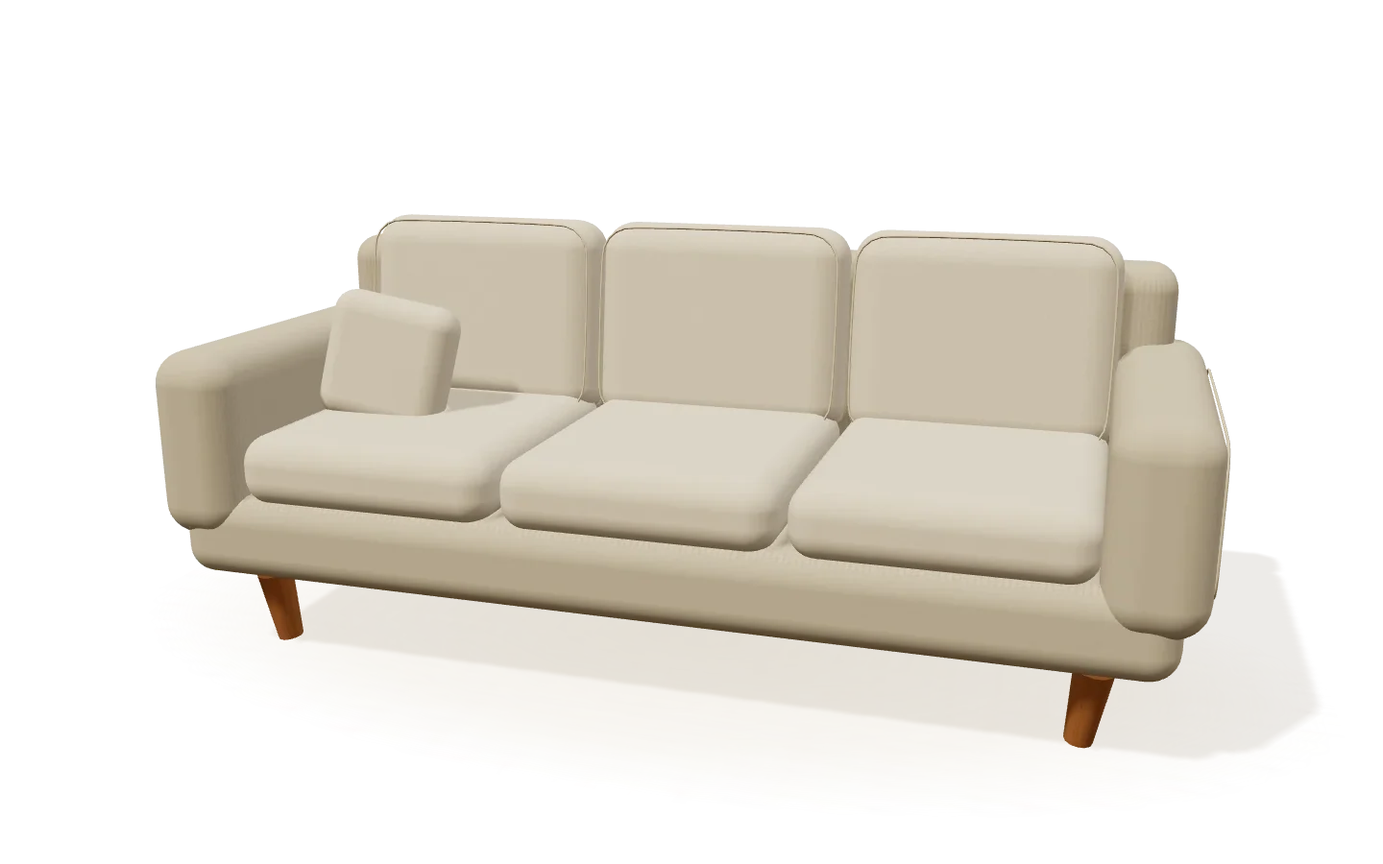
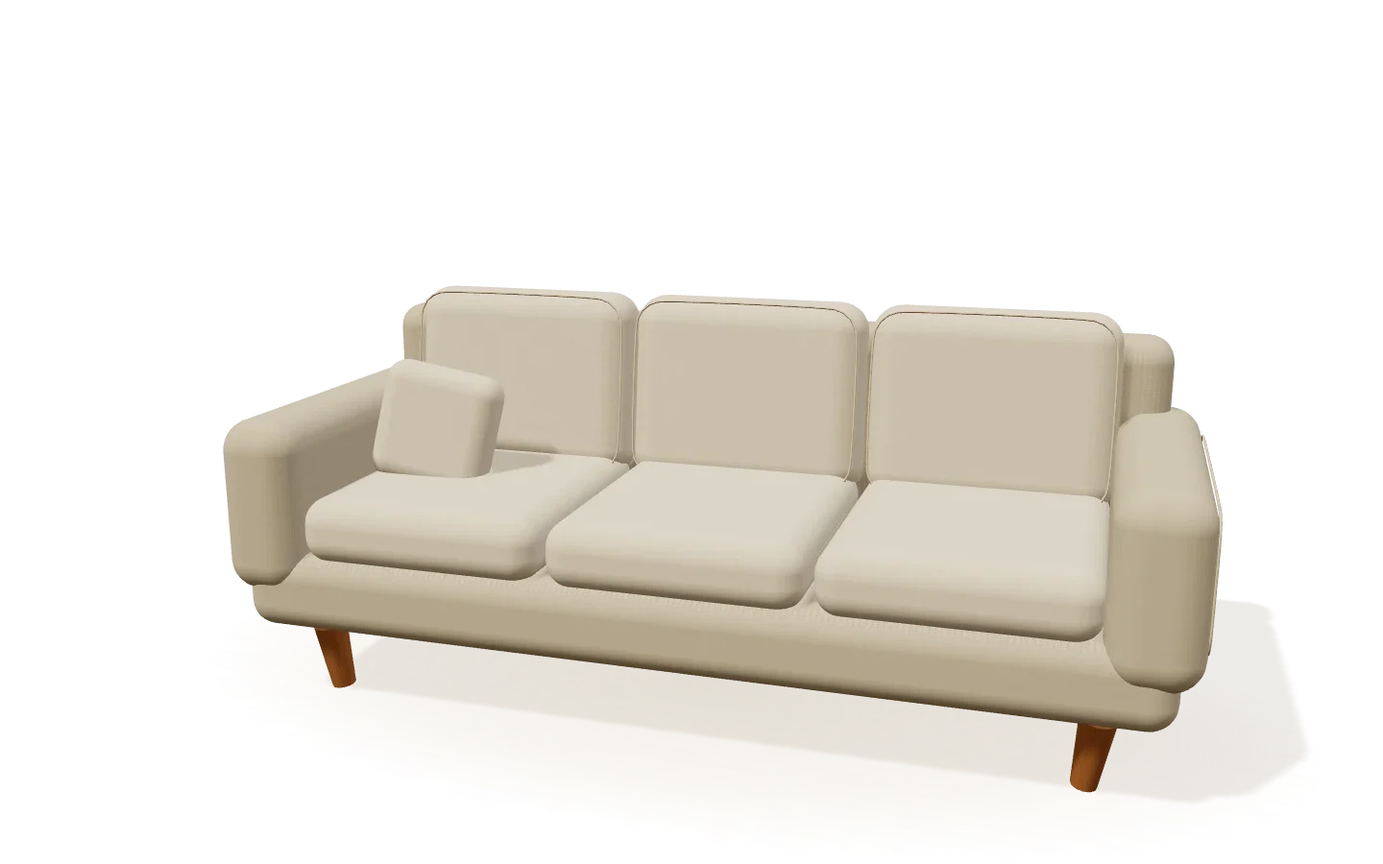
Choreograph scroll typography, gradients and sofa camera

Changed region(s): [[0.0938, 0.2489, 0.9375, 0.9333]]

diff --git a/index.html b/index.html
@@ -31,8 +31,8 @@
         <section class="hero" id="inicio" aria-labelledby="heroHeading">
             <div class="container">
                 <div class="hero-header">
-                    <div><p class="eyebrow">Tapicería a medida · Desde hace 29 años</p><h1 id="heroHeading">Muebles con<br>historia.</h1></div>
-                    <div class="hero-copy"><p>Los de siempre, para seguir viviendo.<br>Restauramos y tapizamos sus muebles con el cuidado de un trabajo hecho a mano.</p><a class="text-link" href="#catalogo">Conozca nuestro trabajo <span aria-hidden="true">↓</span></a></div>
+                    <div><p class="eyebrow">Tapicería a medida · Desde hace 29 años</p><h1 id="heroHeading" data-reveal><span class="title-line"><span>Muebles con</span></span> <span class="title-line"><span>historia.</span></span></h1></div>
+                    <div class="hero-copy"><p data-reveal style="--reveal-delay: 120ms;">Los de siempre, para seguir viviendo.<br>Restauramos y tapizamos sus muebles con el cuidado de un trabajo hecho a mano.</p><a class="text-link" href="#catalogo">Conozca nuestro trabajo <span aria-hidden="true">↓</span></a></div>
                 </div>
                 <figure class="hero-figure">
                     <img src="assets/photos/sofa-curvo-terracota.jpg" srcset="assets/photos/sofa-curvo-terracota-sm.jpg 720w, assets/photos/sofa-curvo-terracota.jpg 1600w" sizes="(max-width: 1440px) 100vw, 1360px" width="1600" height="582" alt="Sofá curvo tapizado en terracota, junto a una ventana de la residencia" fetchpriority="high">
@@ -44,9 +44,20 @@
 
         <section class="showroom-section" id="espacio-3d" aria-labelledby="spatialHeading" data-scene-state="static" data-progress="0">
             <div class="showroom-sticky" id="spatialStage">
+                <div class="showroom-atmosphere" aria-hidden="true">
+                    <div class="scene-wash scene-wash--linen"></div>
+                    <div class="scene-wash scene-wash--clay"></div>
+                    <div class="scene-wash scene-wash--sage"></div>
+                    <div class="scene-light"></div>
+                </div>
                 <div class="showroom-heading">
-                    <p class="eyebrow">Un estudio de formas y texturas</p>
-                    <h2 id="spatialHeading">El oficio<br>toma forma.</h2>
+                    <p class="eyebrow">Rivera · Un estudio de formas y texturas</p>
+                    <h2 id="spatialHeading" class="sr-only">El oficio toma forma.</h2>
+                </div>
+                <div class="showroom-kinetic" aria-hidden="true">
+                    <div class="motion-word" data-motion-word="0"><p class="motion-line"><span>La forma</span></p><p class="motion-subtitle"><span>de quedarse.</span></p></div>
+                    <div class="motion-word" data-motion-word="1"><p class="motion-line"><span>El detalle</span></p><p class="motion-subtitle"><span>que se siente.</span></p></div>
+                    <div class="motion-word" data-motion-word="2"><p class="motion-line"><span>Su hogar</span></p><p class="motion-subtitle"><span>con otra vida.</span></p></div>
                 </div>
                 <div class="showroom-mode">
                     <button type="button" id="perfToggleBtn" class="perf-control" hidden aria-pressed="false" aria-label="Vista 3D del mueble" aria-controls="sofaCanvas"><span class="perf-dot" aria-hidden="true"></span><span id="perfStatusLabel">Ver en 3D</span></button>
@@ -74,7 +85,7 @@
 
         <section class="portfolio-section" id="catalogo" aria-labelledby="catalogoHeading">
             <div class="container">
-                <div class="section-header"><div><p class="eyebrow">Una selección del taller</p><h2 id="catalogoHeading">Nuestro trabajo.</h2></div><p class="section-desc">Sofás, butacas y piezas a medida.<br>De nuestro taller a su casa.</p></div>
+                <div class="section-header"><div><p class="eyebrow">Una selección del taller</p><h2 id="catalogoHeading" data-reveal>Nuestro trabajo.</h2></div><p class="section-desc" data-reveal style="--reveal-delay: 100ms;">Sofás, butacas y piezas a medida.<br>De nuestro taller a su casa.</p></div>
                 <div class="catalog-controls">
                     <div class="filter-bar" hidden role="group" aria-label="Filtrar trabajos" aria-controls="catalogGrid">
                         <button class="filter-btn is-active" type="button" data-filter="all" aria-pressed="true">Todos</button>
@@ -165,19 +176,19 @@
         <section class="atelier-section" id="maestro" aria-labelledby="maestroHeading">
             <div class="container atelier-layout">
                 <figure class="atelier-photo"><img src="assets/photos/taller-maestro.jpg" srcset="assets/photos/taller-maestro-sm.jpg 720w, assets/photos/taller-maestro.jpg 1152w" sizes="(max-width: 800px) 100vw, 50vw" width="1152" height="883" alt="Trabajo manual sobre una poltrona en el taller de tapicería" loading="lazy" decoding="async"><figcaption>Un día en el taller.</figcaption></figure>
-                <div class="atelier-copy"><p class="eyebrow">Maestro Rivera · Lima</p><h2 id="maestroHeading">Hecho a mano.<br>Con paciencia.</h2><p>Hace 29 años que trabajamos con telas, madera y espuma. Escuchamos lo que necesita, revisamos su mueble y le ayudamos a elegir cómo renovarlo.</p><p>Desde la primera conversación hasta la entrega, el trato es directo con el maestro tapicero.</p><a class="text-link" href="https://wa.me/51997317630?text=Hola%20Maestro%20Rivera,%20quisiera%20cotizar%20el%20tapizado%20de%20un%20mueble." target="_blank" rel="noopener noreferrer">Conversemos sobre su mueble <span aria-hidden="true">↗</span></a></div>
+                <div class="atelier-copy"><p class="eyebrow">Maestro Rivera · Lima</p><h2 id="maestroHeading" data-reveal>Hecho a mano.<br>Con paciencia.</h2><p>Hace 29 años que trabajamos con telas, madera y espuma. Escuchamos lo que necesita, revisamos su mueble y le ayudamos a elegir cómo renovarlo.</p><p>Desde la primera conversación hasta la entrega, el trato es directo con el maestro tapicero.</p><a class="text-link" href="https://wa.me/51997317630?text=Hola%20Maestro%20Rivera,%20quisiera%20cotizar%20el%20tapizado%20de%20un%20mueble." target="_blank" rel="noopener noreferrer">Conversemos sobre su mueble <span aria-hidden="true">↗</span></a></div>
             </div>
         </section>
 
         <section class="process-section" id="proceso" aria-labelledby="procesoHeading">
             <div class="container process-layout">
-                <div><p class="eyebrow">Lo que también importa</p><h2 id="procesoHeading">Por dentro,<br>también.</h2><p class="section-desc">Revisamos la estructura y el relleno antes de colocar la tela. Lo que no se ve también se siente al sentarse.</p><ol class="process-steps"><li><span>01</span><div><h3>Revisamos su mueble</h3><p>Evaluamos qué se puede conservar y qué necesita renovarse.</p></div></li><li><span>02</span><div><h3>Elegimos los materiales</h3><p>Tela, textura y firmeza según el uso que le dará.</p></div></li><li><span>03</span><div><h3>Trabajamos a medida</h3><p>Ajustamos el relleno y cuidamos cada costura.</p></div></li></ol></div>
+                <div><p class="eyebrow">Lo que también importa</p><h2 id="procesoHeading" data-reveal>Por dentro,<br>también.</h2><p class="section-desc" data-reveal style="--reveal-delay: 100ms;">Revisamos la estructura y el relleno antes de colocar la tela. Lo que no se ve también se siente al sentarse.</p><ol class="process-steps"><li><span>01</span><div><h3>Revisamos su mueble</h3><p>Evaluamos qué se puede conservar y qué necesita renovarse.</p></div></li><li><span>02</span><div><h3>Elegimos los materiales</h3><p>Tela, textura y firmeza según el uso que le dará.</p></div></li><li><span>03</span><div><h3>Trabajamos a medida</h3><p>Ajustamos el relleno y cuidamos cada costura.</p></div></li></ol></div>
                 <figure class="process-photo"><img src="assets/photos/espuma-antes-despues.jpg" srcset="assets/photos/espuma-antes-despues-sm.jpg 720w, assets/photos/espuma-antes-despues.jpg 1536w" sizes="(max-width: 800px) 100vw, 50vw" width="1536" height="792" alt="Relleno de un asiento abierto durante la revisión en el taller" loading="lazy" decoding="async"><figcaption>El trabajo empieza antes de la tela.</figcaption></figure>
             </div>
         </section>
 
         <section class="contact-section" id="contacto" aria-labelledby="contactoHeading">
-            <div class="container contact-layout"><div><p class="eyebrow">Empecemos por una foto</p><h2 id="contactoHeading">Su mueble aún<br>tiene historia.</h2></div><div class="contact-copy"><p>Envíenos una foto por WhatsApp. Le orientamos sobre el tapizado y coordinamos los siguientes pasos.</p><a class="button-primary" href="https://wa.me/51997317630?text=Hola%20Maestro%20Rivera,%20quisiera%20cotizar%20el%20tapizado%20de%20un%20mueble." target="_blank" rel="noopener noreferrer">Consultar por WhatsApp <span aria-hidden="true">↗</span></a><a class="phone-link" href="tel:+51997317630">O llámenos al 997 317 630</a></div></div>
+            <div class="container contact-layout"><div><p class="eyebrow">Empecemos por una foto</p><h2 id="contactoHeading" data-reveal>Su mueble aún<br>tiene historia.</h2></div><div class="contact-copy"><p>Envíenos una foto por WhatsApp. Le orientamos sobre el tapizado y coordinamos los siguientes pasos.</p><a class="button-primary" href="https://wa.me/51997317630?text=Hola%20Maestro%20Rivera,%20quisiera%20cotizar%20el%20tapizado%20de%20un%20mueble." target="_blank" rel="noopener noreferrer">Consultar por WhatsApp <span aria-hidden="true">↗</span></a><a class="phone-link" href="tel:+51997317630">O llámenos al 997 317 630</a></div></div>
         </section>
     </main>
     <footer class="site-footer"><div class="container footer-inner"><a class="brand-name" href="#inicio">Rivera Concierge</a><p>Tapicería de muebles · Lima, Perú</p><a class="back-top" href="#inicio">Volver al inicio ↑</a></div></footer>

diff --git a/app.js b/app.js
@@ -25,6 +25,10 @@
         const chapterDescription = document.getElementById('showroomDescription');
         const hint = document.getElementById('showroomHint');
         const announcement = document.getElementById('showroomStatus');
+        const motionWords = Array.from(stage.querySelectorAll('[data-motion-word]'));
+        const motionBeats = [[-0.2, -0.1, 0.19, 0.33], [0.24, 0.40, 0.57, 0.71], [0.64, 0.82, 1.2, 1.3]];
+        const revealItems = Array.from(document.querySelectorAll('[data-reveal]'));
+        let revealObserver = null;
         const chapters = [
             ['01 / La forma', 'Un lugar para quedarse.', 'Líneas sencillas. Proporciones que invitan a sentarse.'],
             ['02 / El tapizado', 'La diferencia se siente.', 'Una textura, un tono, una forma de hacer suyo el espacio.'],
@@ -72,6 +76,64 @@
             if (hint) hint.textContent = active ? 'Deslice para descubrir la forma ↓' : 'Elija un tono para explorar el tapizado.';
         }
 
+        function smoothstep(start, end, value) {
+            const t = Math.max(0, Math.min(1, (value - start) / (end - start)));
+            return t * t * (3 - 2 * t);
+        }
+
+        function animateTypography(value) {
+            // One scroll clock drives masks, background layers, copy and the 3D camera.
+            // No timers, animated blur or perpetual background animation.
+            motionWords.forEach(function (word, index) {
+                const beat = motionBeats[index];
+                const enter = index === 0 ? 1 : smoothstep(beat[0], beat[1], value);
+                const leave = index === 2 ? 0 : smoothstep(beat[2], beat[3], value);
+                const subEnter = index === 0 ? 1 : smoothstep(beat[0] + 0.035, beat[1] + 0.035, value);
+                const subLeave = index === 2 ? 0 : smoothstep(beat[2] + 0.015, beat[3] + 0.015, value);
+                word.style.setProperty('--word-alpha', (enter * (1 - leave)).toFixed(4));
+                word.style.setProperty('--word-y', ((1 - enter) * 110 - leave * 106).toFixed(2) + '%');
+                word.style.setProperty('--word-scale', (0.94 + enter * 0.06 - leave * 0.025).toFixed(4));
+                word.style.setProperty('--sub-alpha', (subEnter * (1 - subLeave)).toFixed(4));
+                word.style.setProperty('--sub-y', ((1 - subEnter) * 115 - subLeave * 110).toFixed(2) + '%');
+            });
+            const clay = smoothstep(0.10, 0.43, value) * (1 - smoothstep(0.65, 0.91, value));
+            stage.style.setProperty('--clay-opacity', clay.toFixed(4));
+            stage.style.setProperty('--sage-opacity', smoothstep(0.58, 0.93, value).toFixed(4));
+            stage.style.setProperty('--haze-x', ((value - 0.5) * 80).toFixed(2) + 'px');
+            stage.style.setProperty('--haze-y', (Math.sin(value * Math.PI) * -35).toFixed(2) + 'px');
+            stage.style.setProperty('--light-x', ((value - 0.5) * -100).toFixed(2) + 'px');
+            stage.style.setProperty('--light-y', (value * 24).toFixed(2) + 'px');
+            const distance = Math.min(Math.abs(value - 1 / 3), Math.abs(value - 2 / 3));
+            const copyOpacity = smoothstep(0, 0.065, distance);
+            stage.style.setProperty('--story-alpha', copyOpacity.toFixed(4));
+            const local = value < 1 / 3 ? value - 1 / 3 : value < 2 / 3 ? value - 2 / 3 : value - 1;
+            stage.style.setProperty('--story-y', ((1 - copyOpacity) * (local < 0 ? -14 : 14)).toFixed(2) + 'px');
+        }
+
+        function configureReveals() {
+            const hardwareSuitable = navigator.hardwareConcurrency >= 4 && (typeof navigator.deviceMemory !== 'number' || navigator.deviceMemory >= 4);
+            const allowed = supported && !motionQuery.matches && !(connection && connection.saveData) && hardwareSuitable && hoverQuery.matches;
+            if (!allowed) {
+                if (revealObserver) revealObserver.disconnect();
+                revealObserver = null;
+                document.body.classList.remove('motion-reveals');
+                // Reset instantly when accessibility or device policy changes.
+                revealItems.forEach(function (item) { item.classList.add('is-revealed'); });
+                return;
+            }
+            if (revealObserver) return;
+            revealObserver = new IntersectionObserver(function (entries) {
+                entries.forEach(function (entry) {
+                    if (entry.isIntersecting) {
+                        entry.target.classList.add('is-revealed');
+                        if (revealObserver) revealObserver.unobserve(entry.target);
+                    }
+                });
+            }, { rootMargin: '0px 0px -32px 0px', threshold: 0.12 });
+            document.body.classList.add('motion-reveals');
+            revealItems.forEach(function (item) { revealObserver.observe(item); });
+        }
+
         function updateChapter(value) {
             const next = Math.min(2, Math.floor(value * 3));
             if (next === chapter) return;
@@ -110,6 +172,7 @@
             section.dataset.progress = '0';
             stage.style.setProperty('--showroom-progress', '0');
             updateChapter(0);
+            animateTypography(0);
             if (inside) {
                 window.scrollTo({ top: Math.max(0, window.scrollY + section.getBoundingClientRect().top - headerHeight), behavior: 'instant' });
             }
@@ -184,6 +247,7 @@
             section.dataset.progress = progress.toFixed(4);
             stage.style.setProperty('--showroom-progress', progress.toFixed(4));
             updateChapter(progress);
+            animateTypography(progress);
             if (settled) stopAnimation();
             else frame = window.requestAnimationFrame(render);
         }
@@ -233,6 +297,7 @@
         }
 
         function applyPolicy() {
+            configureReveals();
             const blocked = !supported || motionQuery.matches || Boolean(connection && connection.saveData);
             const hardwareSuitable = navigator.hardwareConcurrency >= 4 && (typeof navigator.deviceMemory !== 'number' || navigator.deviceMemory >= 4);
             const automatic = hardwareSuitable && hoverQuery && hoverQuery.matches;
@@ -271,6 +336,7 @@
         toggle.hidden = false;
         updateBounds();
         updateChapter(0);
+        animateTypography(0);
 
         if (supported) {
             const observer = new IntersectionObserver(function (entries) {

diff --git a/styles.css b/styles.css
@@ -263,3 +263,87 @@ figcaption { display: flex; justify-content: space-between; gap: 16px; font-size
     .showroom-live .showroom-story h3 { font-size: 19px; }
     .showroom-live .showroom-heading .eyebrow { margin-bottom: 8px; }
 }
+
+/* Scroll art direction: static gradients, composited washes and masked type. */
+.hero {
+    position: relative;
+    background: radial-gradient(ellipse at 100% 0, #d8a88c55, transparent 58%), linear-gradient(145deg, #f7f0e7, #eee4d5);
+}
+.hero .text-link { gap: 54px; }
+.title-line { display: block; overflow: hidden; }
+.title-line > span { display: block; }
+.showroom-section { --scene-paper: #eadbc8; border-color: #b9a48d; }
+.showroom-sticky { background: #eadbc8; }
+.showroom-section.showroom-live { height: 340svh; }
+.showroom-atmosphere { position: absolute; inset: 0; z-index: -1; pointer-events: none; overflow: hidden; }
+.scene-wash { position: absolute; inset: -12%; pointer-events: none; }
+.scene-wash--linen { background: radial-gradient(ellipse at 17% 13%, #fff6e8 0%, transparent 55%), linear-gradient(128deg, #e9d6bc 12%, #e7c4a9 62%, #c8b8b2); }
+.scene-wash--clay { background: radial-gradient(ellipse at 82% 42%, #efd0b0, transparent 58%), linear-gradient(115deg, #c3afb4 5%, #c48f78 54%, #deb19a); opacity: var(--clay-opacity, 0); transform: translate3d(var(--haze-x, 0px), var(--haze-y, 0px), 0) scale(1.04); }
+.scene-wash--sage { background: radial-gradient(ellipse at 22% 30%, #f0e9d3 0%, transparent 58%), linear-gradient(120deg, #c5baaa, #adb59c 54%, #c6a894); opacity: var(--sage-opacity, 0); transform: translate3d(calc(var(--haze-x, 0px) * -1), calc(var(--haze-y, 0px) * -.5), 0) scale(1.04); }
+.scene-light { position: absolute; width: 70%; height: 90%; top: -25%; left: 22%; background: radial-gradient(ellipse, #fff5e680, #fff5e600 68%); opacity: .7; transform: translate3d(var(--light-x, 0px), var(--light-y, 0px), 0); }
+.showroom-heading { top: 36px; }
+.showroom-heading .eyebrow { color: #4f5148; letter-spacing: .18em; max-width: none; }
+.showroom-mode { top: 25px; }
+.showroom-skip, .showroom-footer, .showroom-story-desc, #materialStatus { color: #4f5148; }
+.showroom-kinetic { position: absolute; z-index: 3; left: max(56px, calc((100vw - 1360px) / 2)); right: 4%; top: 15%; height: 34%; pointer-events: none; }
+.motion-word { position: absolute; inset: 0; opacity: 0; }
+.motion-word[data-motion-word="0"] { opacity: 1; }
+.motion-line { overflow: hidden; padding-bottom: .08em; font-size: clamp(64px, 9.8vw, 144px); font-weight: 300; line-height: 1.08; letter-spacing: .085em; text-transform: uppercase; }
+.motion-line > span { display: block; transform-origin: 0 50%; }
+.motion-subtitle { overflow: hidden; font-size: clamp(30px, 3.8vw, 54px); font-weight: 300; line-height: 1.3; letter-spacing: .015em; margin-left: .06em; }
+.motion-subtitle > span { display: block; }
+.showroom-live .motion-word { opacity: var(--word-alpha, 0); }
+.showroom-live .motion-line > span { transform: translate3d(0, var(--word-y, 0%), 0) scaleX(var(--word-scale, 1)); }
+.showroom-live .motion-subtitle > span { opacity: var(--sub-alpha, 1); transform: translate3d(0, var(--sub-y, 0%), 0); }
+.sofa-view { inset: 0; z-index: 2; }
+.showroom-bottom { z-index: 4; }
+.showroom-live .showroom-story { opacity: var(--story-alpha, 1); transform: translate3d(0, var(--story-y, 0px), 0); }
+.showroom-story h3 { font-size: 25px; }
+.showroom-story .eyebrow { color: #4f5148; }
+.showroom-footer { z-index: 4; border-color: #807c6e80; }
+.showroom-sticky.spatial-active .motion-line > span,
+.showroom-sticky.spatial-active .motion-subtitle > span { will-change: transform; }
+.showroom-sticky.spatial-active .scene-wash--clay,
+.showroom-sticky.spatial-active .scene-wash--sage { will-change: opacity, transform; }
+/* Entry reveals are progressive enhancement; low-spec and no-JS remain visible. */
+[data-reveal] { opacity: 1; transform: none; }
+.motion-reveals [data-reveal] { transition: opacity .8s var(--ease), transform .9s var(--ease); transition-delay: var(--reveal-delay, 0ms); }
+.motion-reveals [data-reveal]:not(.is-revealed) { opacity: 0; transform: translate3d(0, 28px, 0); }
+.motion-reveals h1[data-reveal] { opacity: 1; transform: none; }
+.motion-reveals h1[data-reveal] .title-line > span { transition: transform 1.1s var(--ease); }
+.motion-reveals h1[data-reveal] .title-line:nth-child(2) > span { transition-delay: 130ms; }
+.motion-reveals h1[data-reveal]:not(.is-revealed) .title-line > span { transform: translate3d(0, 110%, 0); }
+.portfolio-section { background: linear-gradient(180deg, #ede5d8, var(--paper) 440px); }
+.atelier-section { background: linear-gradient(130deg, #e4d7c2, #eee4d6 58%, #d5d7c7); }
+.contact-section { background: radial-gradient(ellipse at 88% 70%, #c9cbb460, transparent 66%), linear-gradient(120deg, #f1e8da, #e3d6c5); }
+@media (max-width: 1100px) { .showroom-kinetic { left: 32px; } }
+@media (max-width: 800px) {
+    .showroom-kinetic { top: 17%; }
+    .motion-line { font-size: clamp(54px, 10.5vw, 84px); }
+    .motion-subtitle { font-size: 34px; }
+    .showroom-heading .eyebrow { max-width: 36ch; font-size: 10px; }
+    .showroom-story h3 { font-size: 22px; }
+}
+@media (max-width: 600px) {
+    .showroom-kinetic { left: 20px; right: 12px; top: 18%; height: 24%; }
+    .motion-line { font-size: clamp(38px, 10.2vw, 60px); letter-spacing: .055em; }
+    .motion-subtitle { font-size: 27px; margin-top: 4px; }
+    .showroom-heading { top: 28px; max-width: 55%; }
+    .showroom-heading .eyebrow { max-width: 25ch; }
+    .showroom-section.showroom-live { height: 280svh; }
+    .showroom-sticky { min-height: 760px; }
+    .showroom-live .showroom-sticky { min-height: 0; }
+    .showroom-story h3 { font-size: 20px; }
+    .showroom-story { max-width: 23ch; }
+}
+@media (max-height: 650px) and (min-width: 601px) {
+    .showroom-kinetic { top: 20%; }
+    .motion-line { font-size: clamp(44px, 7.5vw, 85px); }
+    .motion-subtitle { font-size: 30px; }
+}
+@media (prefers-reduced-motion: reduce) {
+    .motion-reveals [data-reveal], .motion-reveals h1[data-reveal] .title-line > span { opacity: 1 !important; transform: none !important; transition: none !important; }
+    .showroom-story, .motion-line > span, .motion-subtitle > span { transform: none !important; }
+    .scene-wash--clay, .scene-wash--sage { opacity: 0 !important; transform: none !important; }
+    .scene-light { transform: none !important; }
+}

diff --git a/furniture3d.js b/furniture3d.js
@@ -18,6 +18,15 @@ const PALETTES = {
     oliva: { body: '#6e7560', cushion: '#969a7f', seam: '#626c53' }
 };
 
+const CAMERA_SHOTS = [
+    { at: 0, angle: 0.30, scale: 1, detail: false, x: -0.12, y: 1.04, z: 0, elevation: 0.24 },
+    { at: 0.14, angle: 0.32, scale: 0.97, detail: false, x: -0.08, y: 1.05, z: 0.02, elevation: 0.24 },
+    { at: 0.44, angle: 0.60, scale: 1, detail: true, x: 0.86, y: 1.08, z: 0.10, elevation: 0.28 },
+    { at: 0.60, angle: 0.49, scale: 1.015, detail: true, x: 0.77, y: 1.05, z: 0.10, elevation: 0.26 },
+    { at: 0.91, angle: -0.38, scale: 1.03, detail: false, x: 0.16, y: 1.07, z: 0, elevation: 0.22 },
+    { at: 1, angle: -0.44, scale: 1.03, detail: false, x: 0.16, y: 1.07, z: 0, elevation: 0.22 }
+];
+
 function fabricTexture() {
     const canvas = document.createElement('canvas');
     canvas.width = canvas.height = 128;
@@ -263,14 +272,32 @@ export async function createFurnitureScene(container, { onFailure } = {}) {
         scene.add(contact);
 
         const positionCamera = () => {
-            // La vista recorre sólo el frente; el sofá permanece completo en móvil.
             const aspect = width / height;
-            const radius = Math.max(4.85, 7.1 / aspect);
-            const angle = 0.30 + progress * 0.29 + pointerX * 0.045;
-            const distance = radius * (1 - progress * 0.12);
-            camera.position.set(Math.sin(angle) * distance, 0.85 + distance * 0.25 + pointerY * 0.13, Math.cos(angle) * distance);
-            camera.lookAt(0, 0.80, 0);
-            sofa.rotation.y = -progress * 0.06;
+            const wide = Math.max(5.2, 7.1 / aspect);
+            const detail = Math.max(2.8, 3.4 / aspect);
+            // Tres actos: silueta completa, detalle deliberado y regreso abierto.
+            // Los encuadres dejan aire sobre el mueble para la tipografía del sitio.
+            let index = 0;
+            while (index < CAMERA_SHOTS.length - 2 && progress > CAMERA_SHOTS[index + 1].at) index++;
+            const from = CAMERA_SHOTS[index];
+            const to = CAMERA_SHOTS[index + 1];
+            const fraction = clamp((progress - from.at) / (to.at - from.at), 0, 1);
+            // Smootherstep: entrada y salida con velocidad y aceleración continuas.
+            const eased = fraction * fraction * fraction * (fraction * (fraction * 6 - 15) + 10);
+            const blend = key => from[key] + (to[key] - from[key]) * eased;
+            const angle = blend('angle') + pointerX * 0.035;
+            const fromDistance = (from.detail ? detail : wide) * from.scale;
+            const toDistance = (to.detail ? detail : wide) * to.scale;
+            const distance = fromDistance + (toDistance - fromDistance) * eased;
+            const x = blend('x');
+            const y = blend('y');
+            const z = blend('z');
+            camera.position.set(
+                x + Math.sin(angle) * distance,
+                y + distance * blend('elevation') + pointerY * 0.10,
+                z + Math.cos(angle) * distance
+            );
+            camera.lookAt(x, y, z);
         };
         const resize = () => {
             if (disposed || contextLost) return;
@@ -306,7 +333,7 @@ export async function createFurnitureScene(container, { onFailure } = {}) {
                 if (next === progress) return;
                 progress = next;
                 positionCamera();
-                renderer.shadowMap.needsUpdate = renderer.shadowMap.enabled;
+                // Sólo cambia la cámara: el mapa de sombras del mueble sigue válido.
             },
             setPointer(x, y) {
                 if (disposed) return;
@@ -324,7 +351,7 @@ export async function createFurnitureScene(container, { onFailure } = {}) {
             setQuality(name) {
                 if (disposed || contextLost || (name !== 'low' && name !== 'high') || name === quality) return;
                 quality = name;
-                renderer.setPixelRatio(name === 'low' ? 1 : Math.min(window.devicePixelRatio || 1, 1.5));
+                renderer.setPixelRatio(Math.min(window.devicePixelRatio || 1, name === 'low' ? 1 : 1.5));
                 renderer.shadowMap.enabled = name !== 'low';
                 renderer.shadowMap.needsUpdate = renderer.shadowMap.enabled;
                 // Cambia la variante de shader una sola vez al cambiar la calidad.

diff --git a/README.md b/README.md
@@ -14,11 +14,13 @@ Publique `index.html`, `styles.css`, `app.js`, `furniture3d.js` y todo `assets/`
 
 ## Recorrido del sofá
 
-La sección «El oficio toma forma» aplica las referencias de los videos aportados por el usuario: un protagonista 3D sobre un escenario amplio, cámara guiada por scroll y texto breve en tres momentos. El análisis visual está en [REFERENCIAS.md](REFERENCIAS.md).
+La sección «El oficio toma forma» aplica las referencias de los videos aportados por el usuario: un escenario con degradados de arena, arcilla y salvia, tipografía cinética y cámara guiada por scroll en tres actos: vista completa, detalle del tapizado y regreso a una vista amplia desde el lado opuesto. El análisis visual está en [REFERENCIAS.md](REFERENCIAS.md).
 
 El sofá es una representación de diseño original construida con geometría. No es un escaneo de un proyecto del taller ni una fotografía de producto. Tiene cojines, ribetes, patas de madera y tres tonos orientativos de tapizado: lino claro, terracota y verde oliva. Las fotografías de trabajos existentes permanecen en el catálogo y el taller.
 
-- `furniture3d.js` crea el modelo, luces y cámara. No inicia bucles de animación.
+- `furniture3d.js` crea el modelo, luces y cámara. No inicia bucles de animación. El sofá permanece fijo y la cámara recorre keyframes suaves, por lo que las sombras del mueble se pueden reutilizar durante el scroll.
+- Un solo progreso de scroll sincroniza cámara, entrada y salida enmascarada de títulos, subtítulos con desfase, texto de los capítulos y capas del degradado. El movimiento se puede recorrer hacia delante y hacia atrás; no depende de temporizadores ni de animaciones de fondo infinitas.
+- Los encabezados y textos de lectura fuera de la escena entran suavemente al acercarse al viewport. Es una mejora progresiva para equipos adecuados; el contenido queda visible sin JavaScript, con reducción de movimiento o en modo ligero. Los enlaces y controles nunca esperan a una animación.
 - `app.js` carga el módulo y Three.js sólo al acercarse a la sección cuando procede activar el 3D. El desplazamiento cambia suavemente la cámara; el navegador conserva su scroll normal. El enlace «Ir a los trabajos» permite saltar el recorrido.
 - El render se detiene al estabilizarse, salir de la sección o esconder la pestaña. El modo estático libera el contexto y los recursos gráficos. El DPR está limitado a 1.5 y las sombras a 512px.
 - El modo automático exige al menos cuatro procesadores lógicos, al menos 4 GB de memoria si el navegador publica ese dato y un puntero fino con hover. Son señales orientativas. Un descenso sostenido de fluidez reduce primero la resolución y las sombras; si persiste, vuelve a la vista estática.
@@ -44,6 +46,6 @@ npm install --prefix /tmp/rivera-browser-tests --no-package-lock playwright
 NODE_PATH=/tmp/rivera-browser-tests/node_modules node tests/smoke.cjs
 ```
 
-También puede indicar un Chromium instalado mediante `PLAYWRIGHT_CHROMIUM_EXECUTABLE_PATH`.
+También puede indicar un Chromium instalado mediante `PLAYWRIGHT_CHROMIUM_EXECUTABLE_PATH`. Para retomar un diagnóstico puede usar `RIVERA_CHECK_FROM=4` para empezar en la cuarta comprobación; el resultado identifica las comprobaciones omitidas y no equivale a una corrida completa. `RIVERA_ARTIFACT_DIR=/tmp/rivera-motion` guarda capturas de las tres fases y la vista móvil.
 
-Las pruebas arrancan y detienen su propio servidor. Cubren recursos, catálogo, teclado, tamaños de pantalla, contenido sin JavaScript, carga diferida del motor, píxeles del render real, materiales, recorrido, pausa y fallos con vista estática. Chromium usa SwiftShader únicamente en las pruebas para disponer de WebGL en máquinas sin GPU. Las señales de hardware y visibilidad se simulan. En la integración funcional se controla el reloj de los callbacks para separar el recorrido de la lentitud del render por software; otra prueba fuerza un reloj lento para verificar la reducción de calidad y el paso a la vista estática. Estas pruebas no sustituyen medir batería y fluidez en teléfonos físicos.
+Las pruebas arrancan y detienen su propio servidor. Cubren recursos, catálogo, teclado, tamaños de pantalla, contenido sin JavaScript, carga diferida del motor, píxeles del render real, materiales, recorrido, pausa y fallos con vista estática. Chromium usa SwiftShader únicamente en las pruebas para disponer de WebGL en máquinas sin GPU, con DPR 0.35 para reducir el coste del render por software; las anchuras CSS se mantienen en los tamaños indicados. Las señales de hardware y visibilidad se simulan. En la integración funcional se controla el reloj de los callbacks para separar el recorrido de la lentitud del render por software; otra prueba fuerza un reloj lento para verificar la reducción de calidad y el paso a la vista estática. Estas pruebas no sustituyen medir batería y fluidez en teléfonos físicos.
